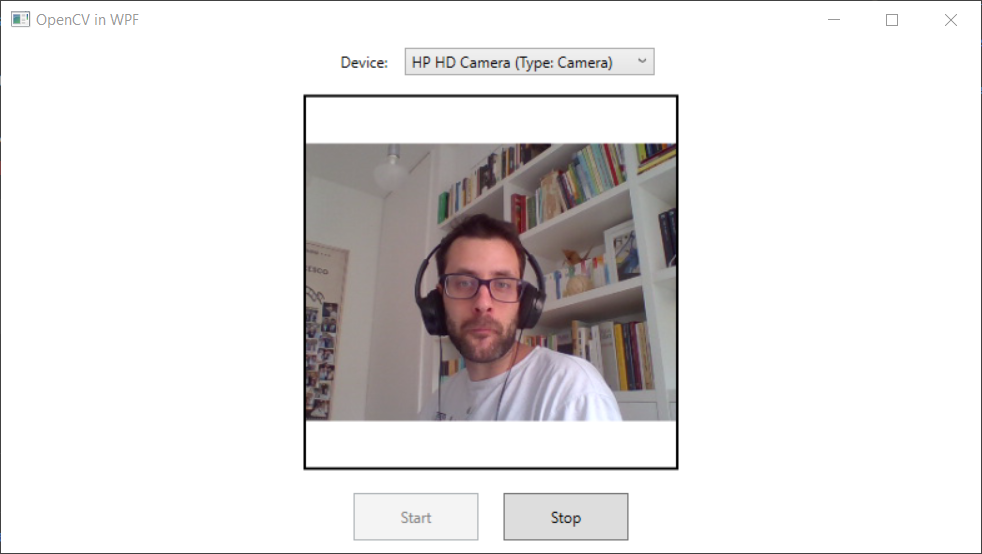
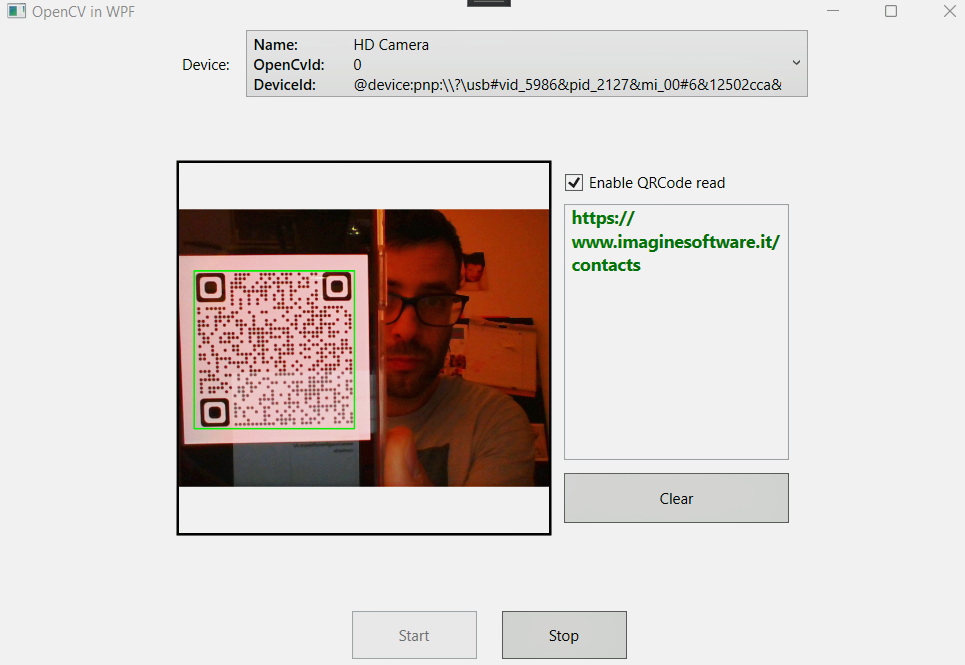
Updated README with the QRCode part

diff --git a/README.md b/README.md
@@ -1,9 +1,10 @@
 # WebcamControl-WPF-With-OpenCV
-A simple webcam control for WPF based on OpenCVSharp
+A simple webcam control for WPF based on OpenCVSharp, now with a **QRCode reader from webcam stream**!
 
 The goal of this "control" is to simplify the webcam streaming on WPF and be open to post processing like recognizing faces!
 
 # ![Screenshot](images/screen.png)
+
 
 ## Notes
 Cameras enumeration has been a pain in the ass.
